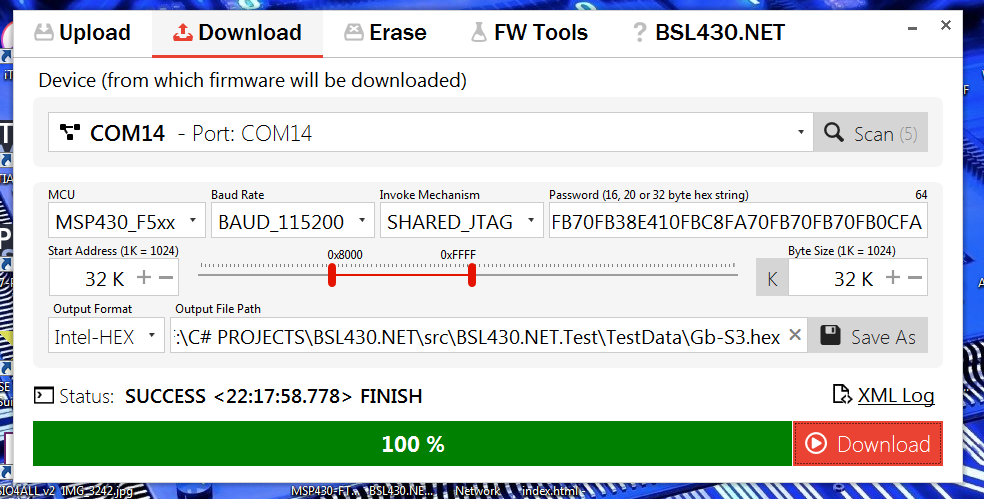
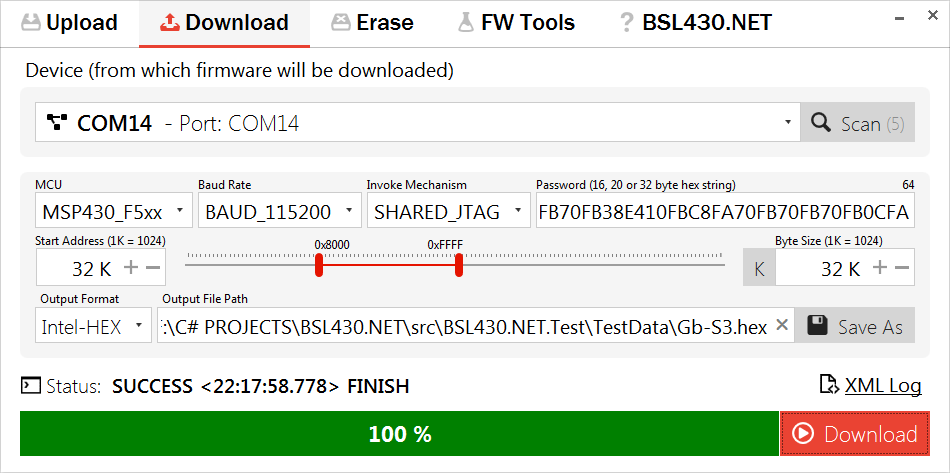
* fixed small bug concerning Log reports * started to trim screenshots

diff --git a/src/BSL430.NET/Main.cs b/src/BSL430.NET/Main.cs
@@ -569,7 +569,7 @@ namespace BSL430_NET
                     BlockEnd();
                     Task.Delay(Const.DELAY_OK_RET).Wait();
 
-                    return Utils.StatusCreateEx(0, reports, report, bsl_version, fw_info.SizeFull);
+                    return Utils.StatusCreateEx(0, reports, null, bsl_version, fw_info.SizeFull);
                 }
                 catch (Exception ex)
                 {
